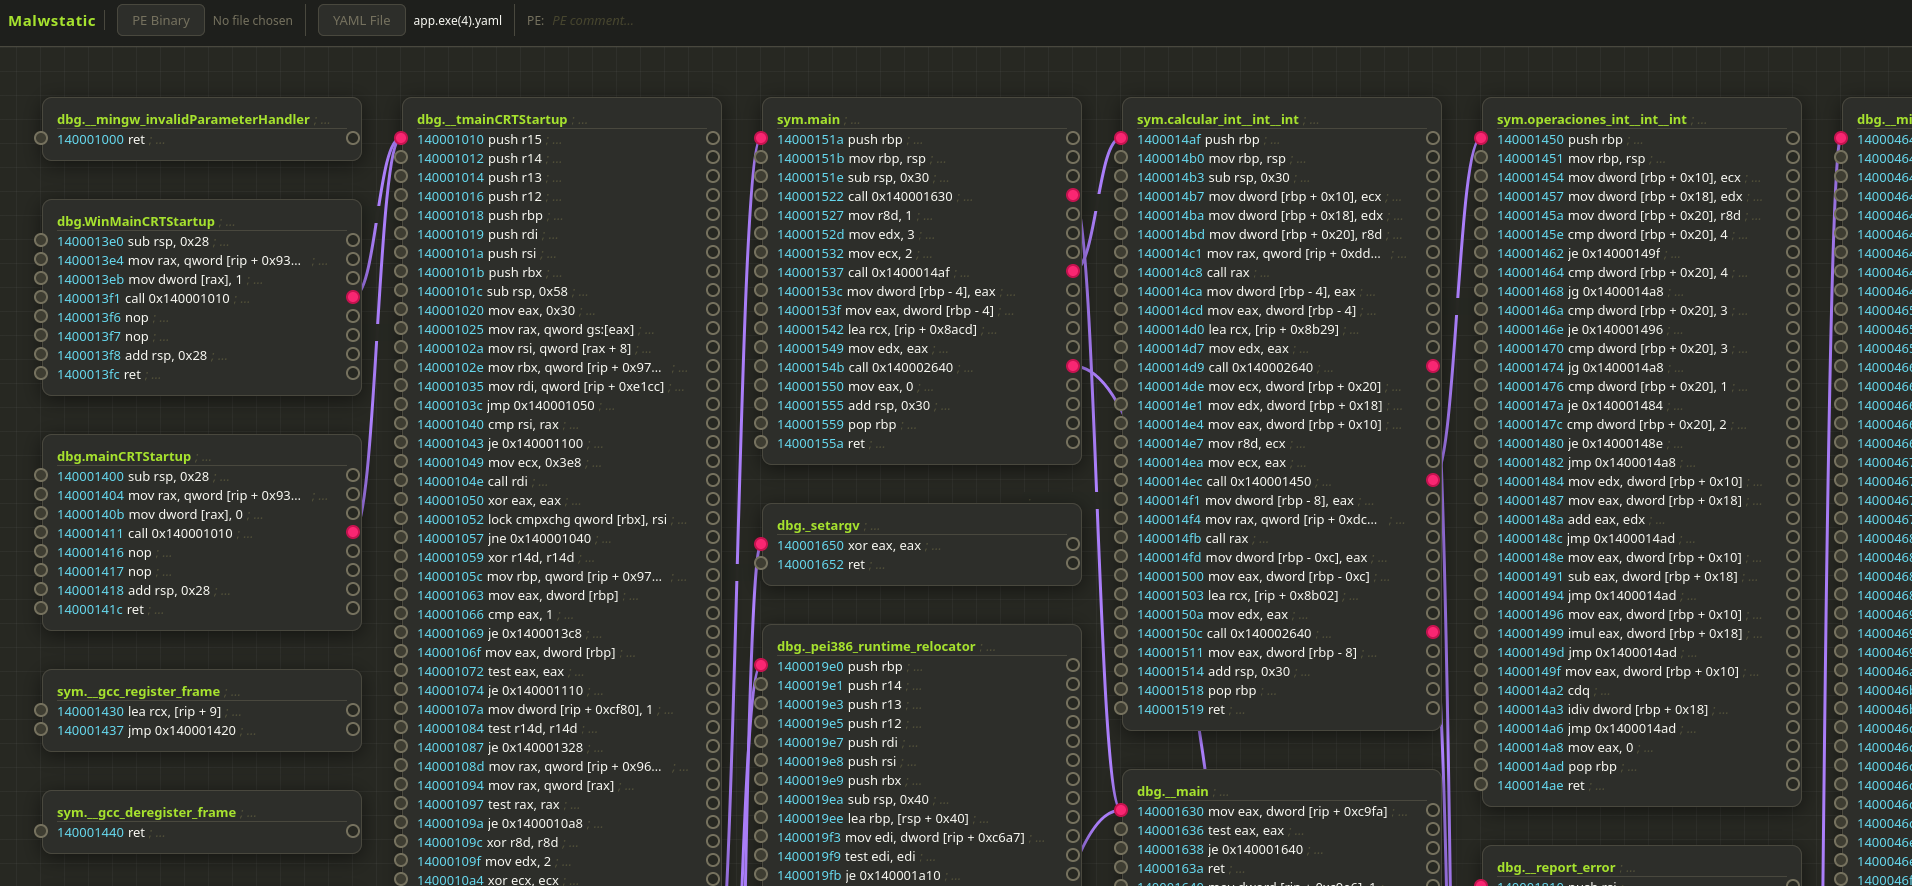
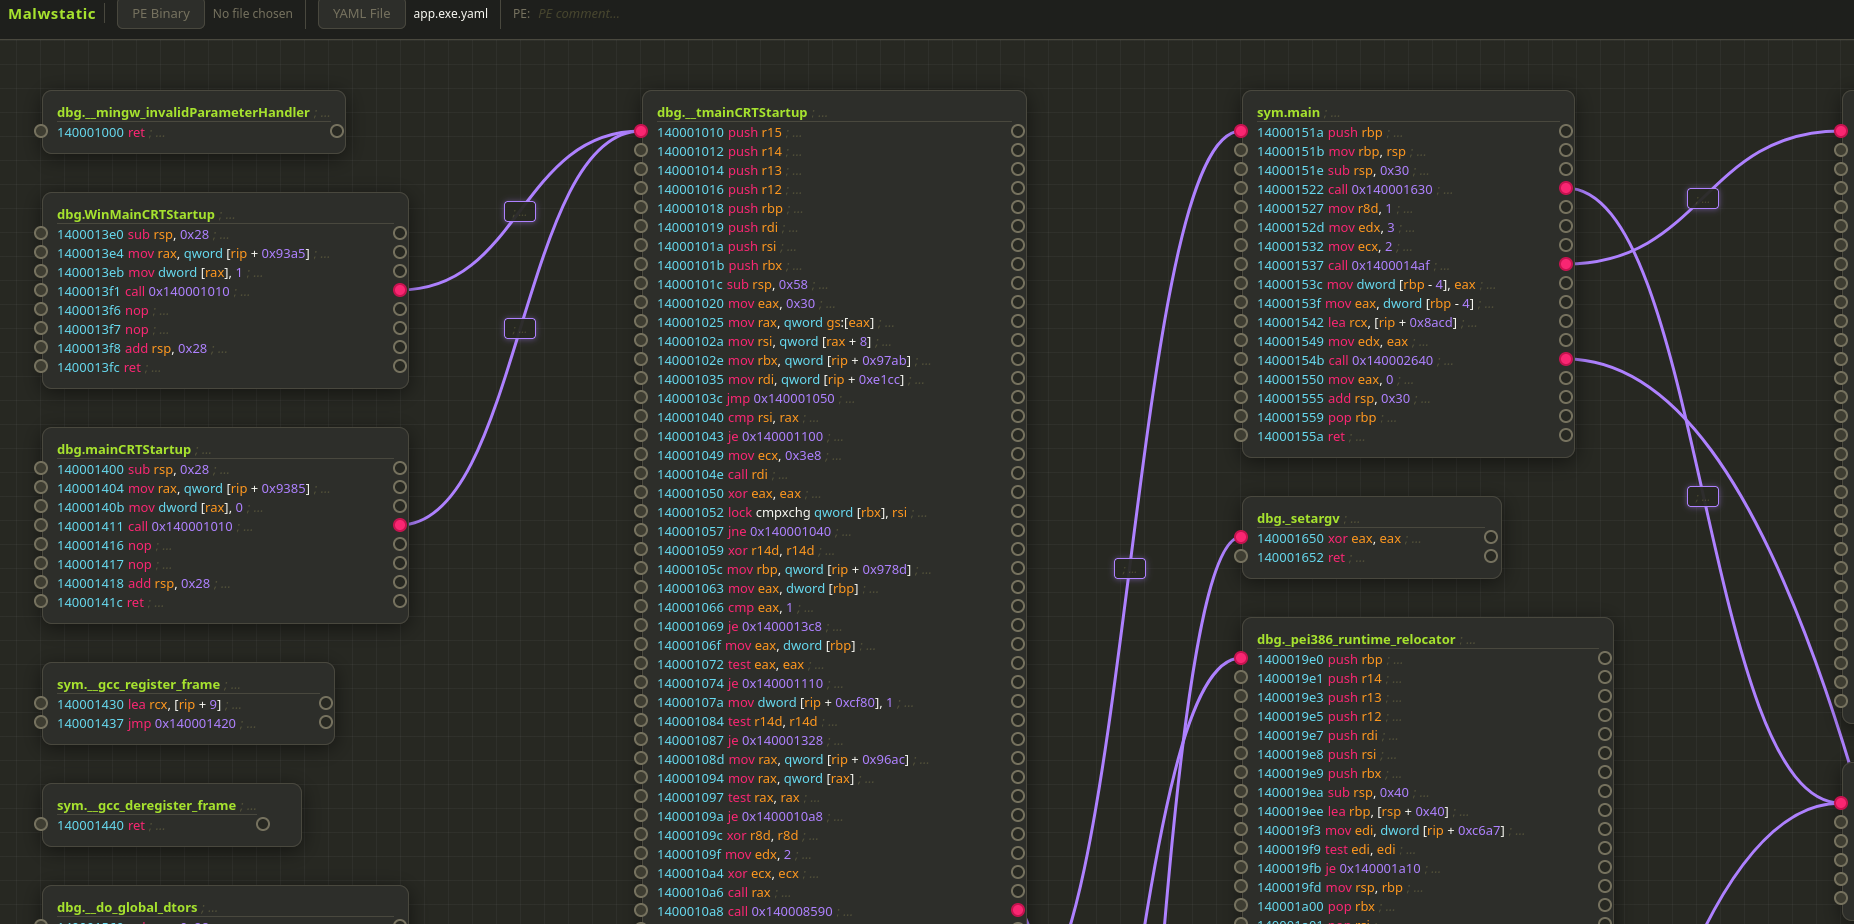
feat: update readme

diff --git a/README.md b/README.md
@@ -12,7 +12,7 @@
   A browser-based static analysis tool for PE binaries — powered by <strong>Rizin WASM</strong> and a visual node editor.
 </p>
 
-![alt text](img/image2.png)
+![alt text](img/image.png)
 
 <p align="center">
   <a href="https://adriann17.github.io/malwstatic/>
